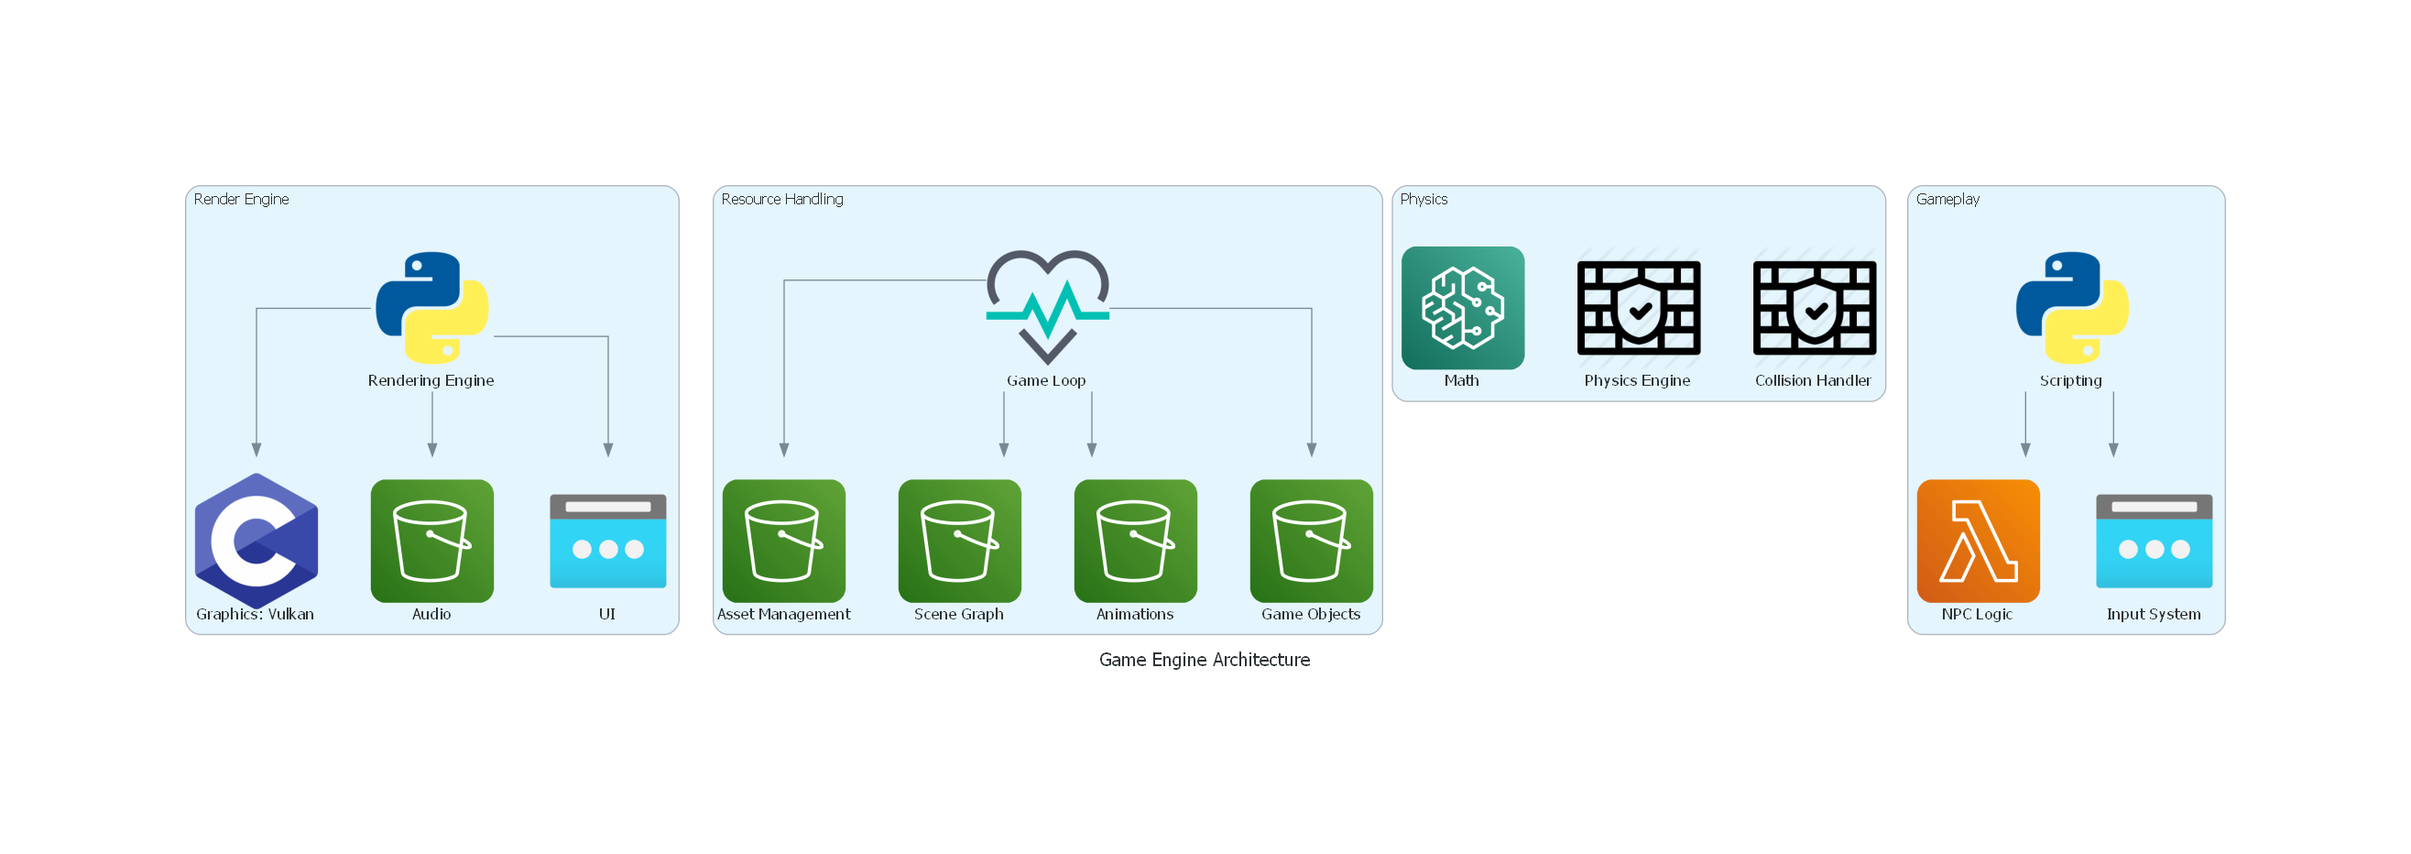
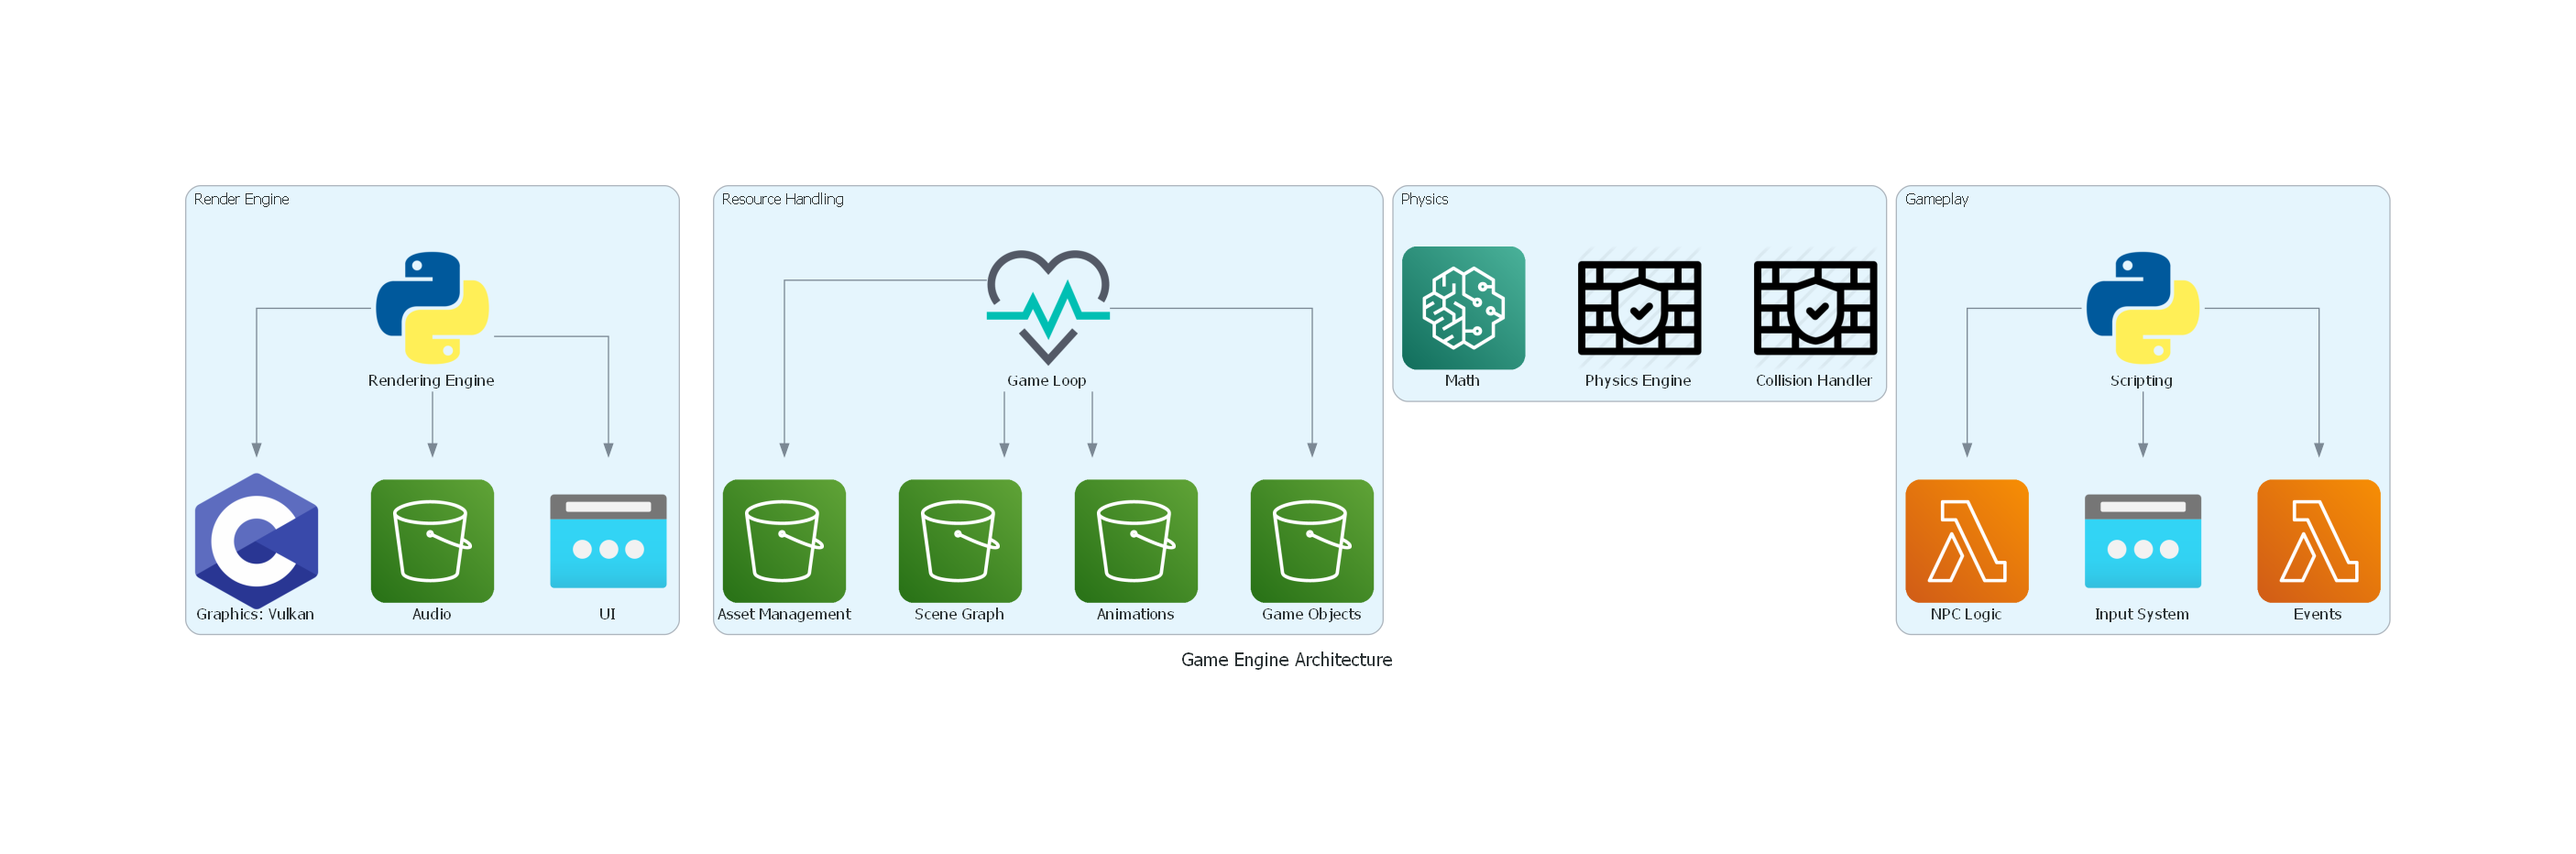
redid diagrram

diff --git a/docs/project_structure_diagram.py b/docs/project_structure_diagram.py
@@ -47,8 +47,9 @@ with Diagram("Game Engine Architecture", show=False, direction="TB", filename="d
         scripting = Python("Scripting")
         npc = Lambda("NPC Logic")
         input_io = PublicIpAddresses("Input System")
+        game_events = Lambda("Events")
 
-        scripting >> [npc, input_io]
+        scripting >> [npc, input_io, game_events]
 
 
 
